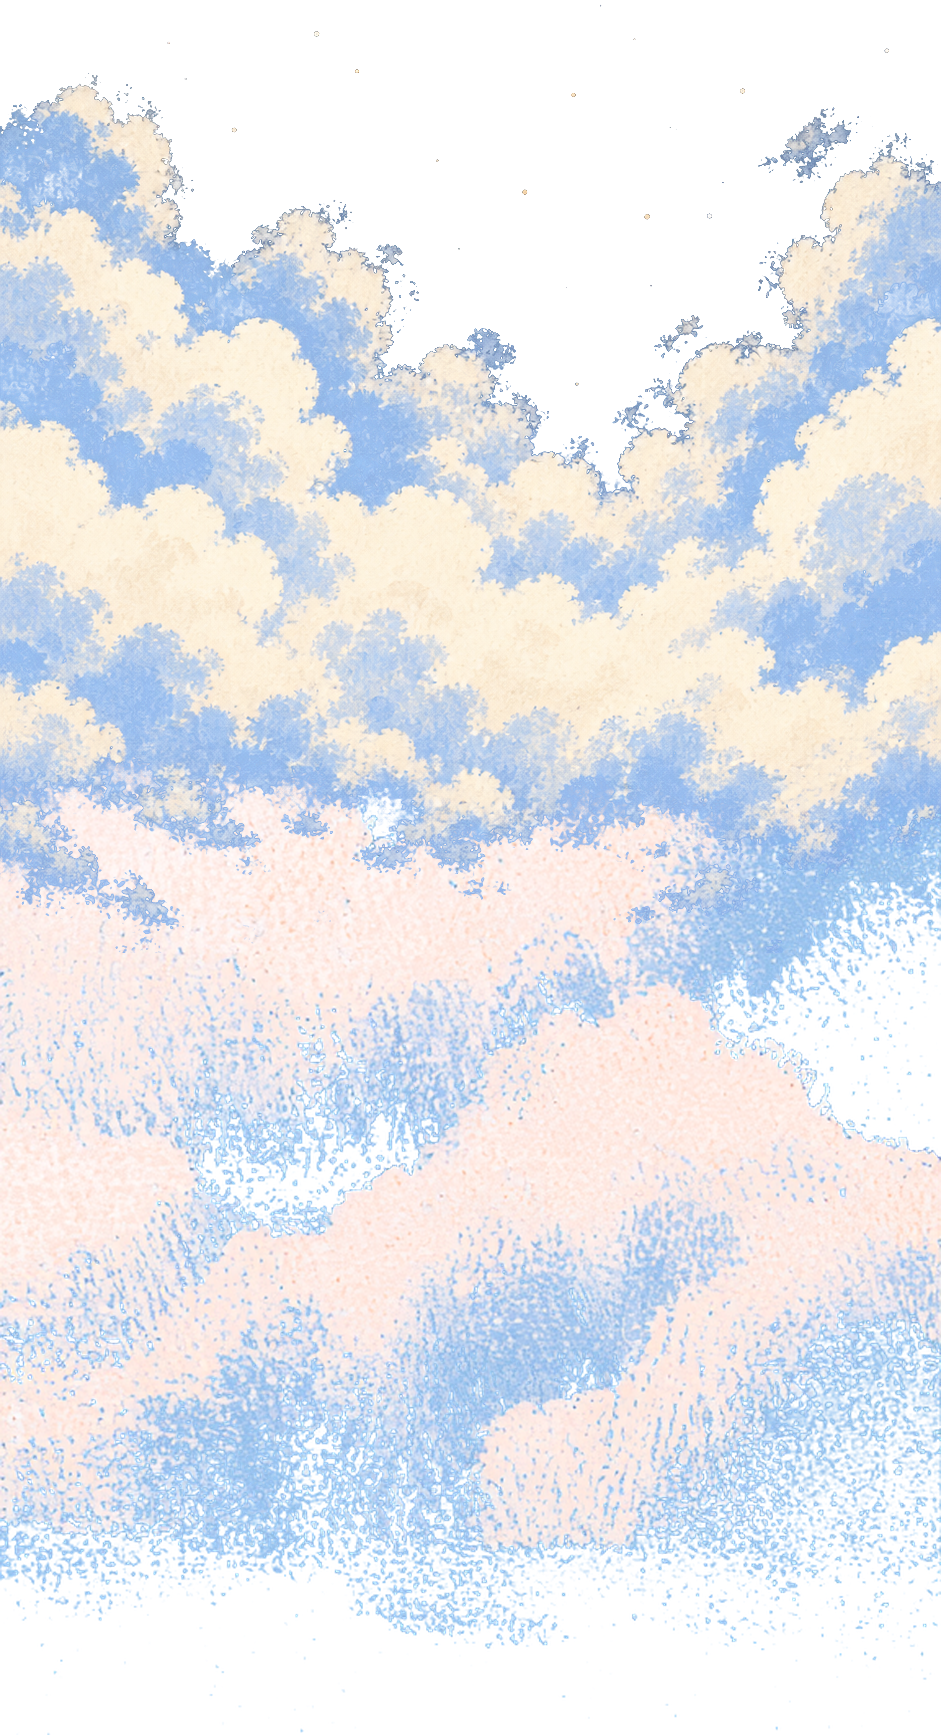
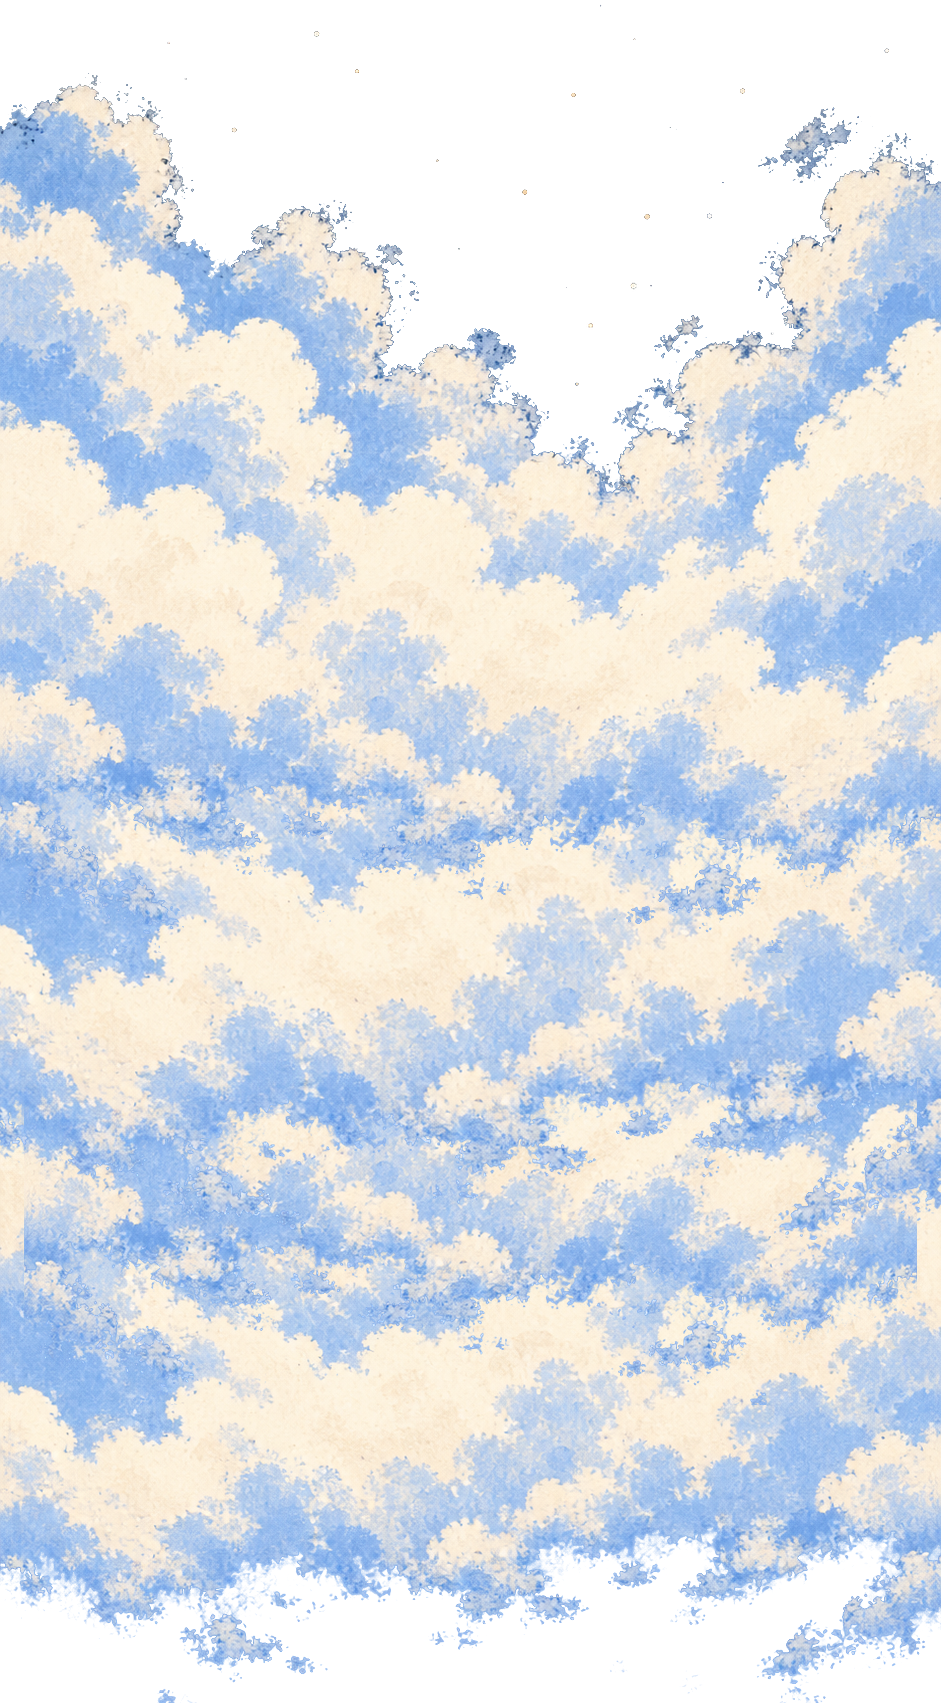
ascent: seamless full-cover cloud bank (0.8s full coverage), lower final cloud line

diff --git a/lib/useStarAscent.ts b/lib/useStarAscent.ts
@@ -18,7 +18,7 @@ import { useEffect, useRef, useState } from "react";
  *   rear clouds                 0.70×
  *   front clouds                1.25×   (cover ~99% of the screen mid-way)
  *
- * While the clouds cover the screen (c ≈ 1.37–1.43) the environment
+ * While the clouds fully cover the screen (c ≈ 0.85–1.49) the environment
  * underneath switches from day to Star mode, hidden from view.
  *
  * Timeline (enter):
@@ -39,9 +39,12 @@ import { useEffect, useRef, useState } from "react";
  */
 
 /** Camera height at rest in the star world (screen heights). */
-const C_END = 2.45;
-/** Environment switch point — the front + rear clouds cover ≈99% here. */
-const C_SWITCH = 1.4;
+const C_END = 2.67;
+/**
+ * Environment switch point — the middle of the full-cover window: the front
+ * cloud bank covers 100% of the screen for c ≈ 0.85–1.49 (≈2.8–3.35s).
+ */
+const C_SWITCH = 1.17;
 const SWITCH_BAND = 0.03;
 
 const RATE = {

diff --git a/app/globals.css b/app/globals.css
@@ -200,10 +200,11 @@
   display: block;
   user-select: none;
 }
-/* Rear bank: rests just above the screen; ends framing the bottom ~30%. */
-.jw-cloud-bank--rear { top: -112%; height: 110%; }
-/* Front bank: its dense core covers the whole screen around c ≈ 1.4. */
-.jw-cloud-bank--front { top: -234%; height: 250%; }
+/* Rear bank: rests just above the screen; ends framing the bottom ~20%. */
+.jw-cloud-bank--rear { top: -124.9%; height: 110%; }
+/* Front bank: its dense core (28–90% of the image) covers the whole screen
+ * for c ≈ 0.85–1.49, then leaves only a few wisps at the very bottom. */
+.jw-cloud-bank--front { top: -261.15%; height: 280%; }
 
 /* Journey UI (header, camera, nav): fades out over 300ms, 0.5s after the
  * tap; fades back in after the return has landed. */
